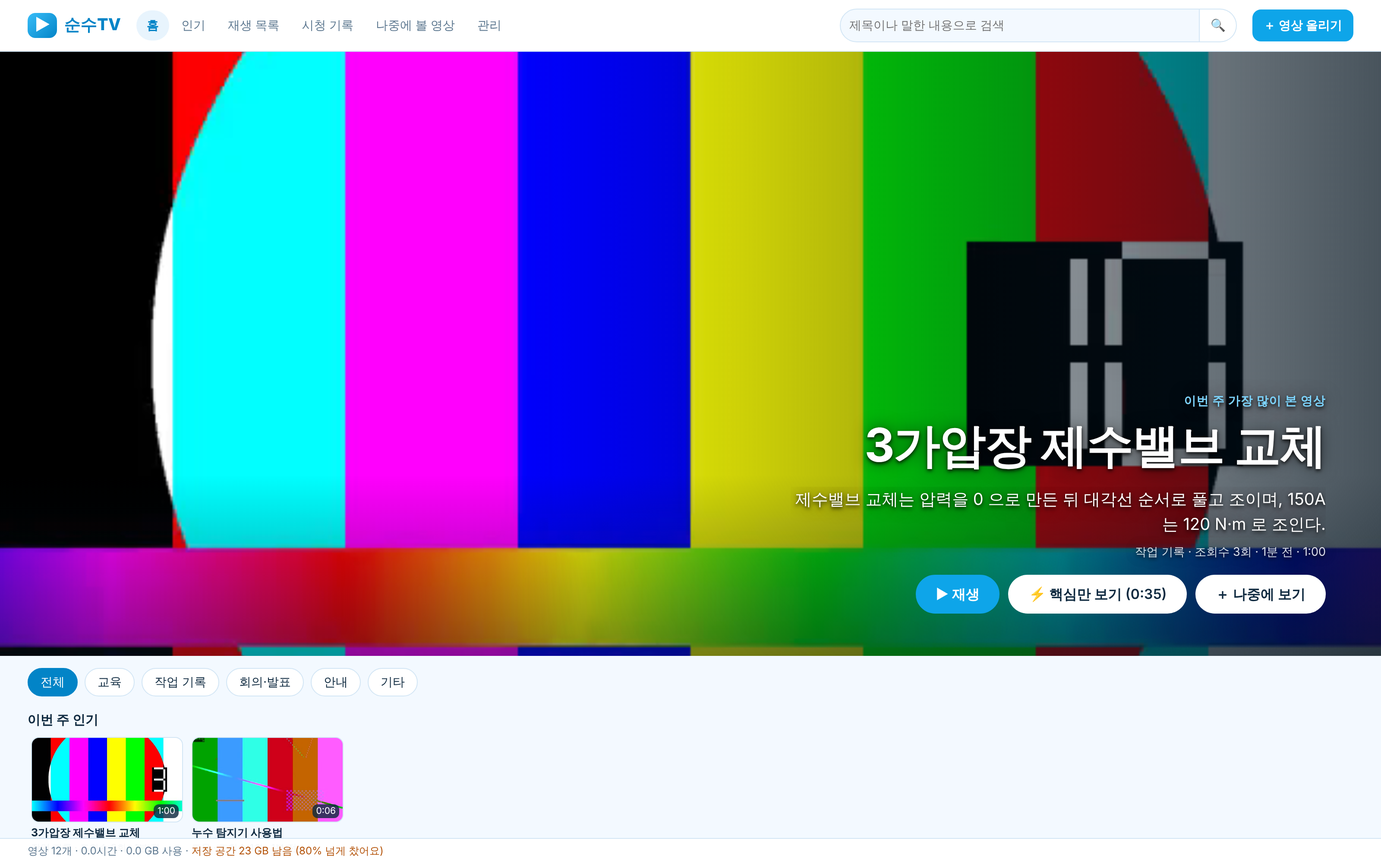
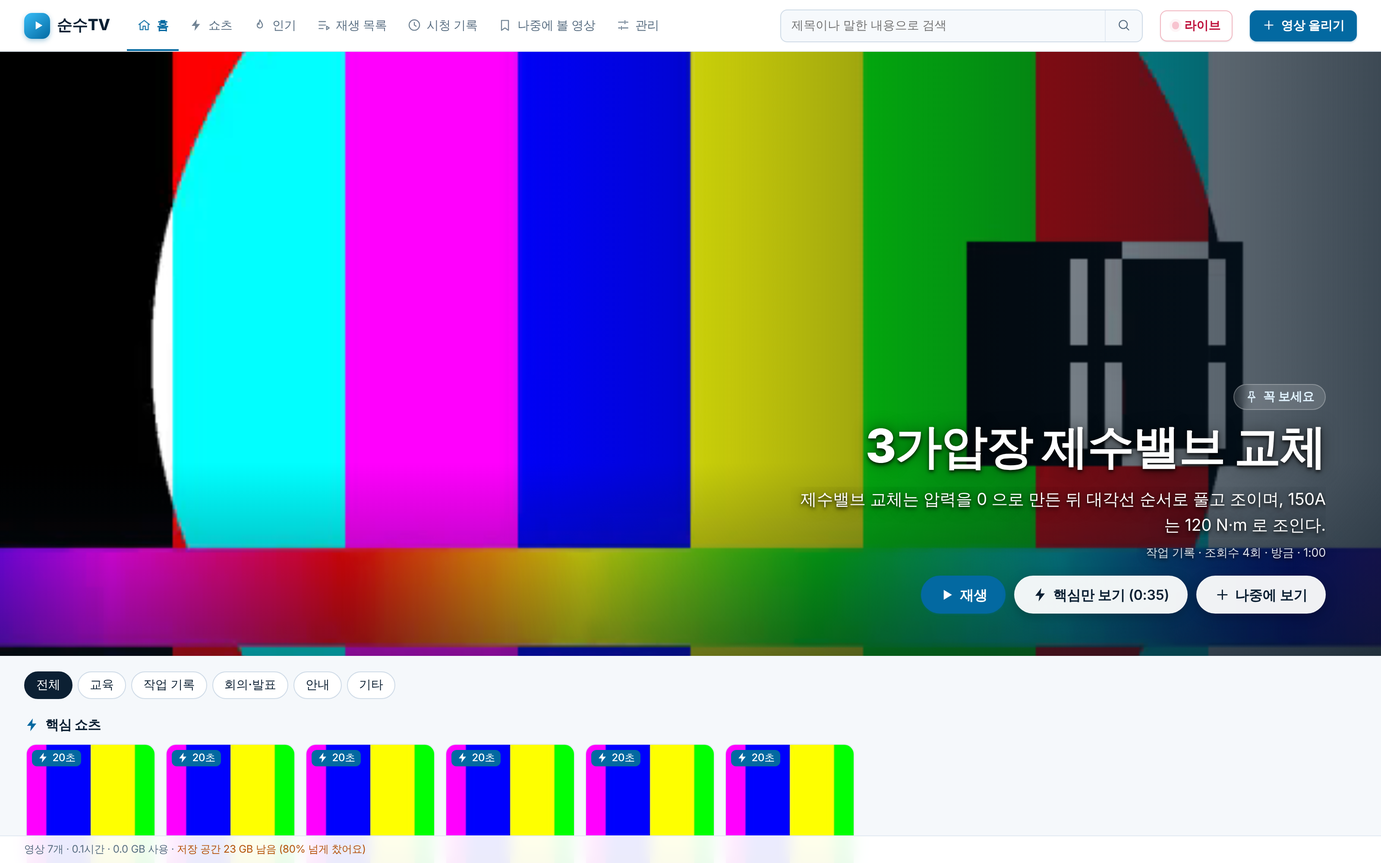
화면 다듬기: 밝은 색 그대로 선 아이콘, 정돈된 간격, 한눈에 보이는 도구 줄, 밝은 편집실 (#20)
Claude-Session: https://claude.ai/code/session_01WFWMCxUpiuvt1NbcY57aW6

diff --git a/module/web/pro.css b/module/web/pro.css
@@ -1,0 +1,97 @@
+/* 순수TV 다듬기: 밝은 하늘색·하얀색을 유지하면서 간격·글자·선·그림자를 한 가지 규칙으로 맞춘다. style.css 위에 덮어쓴다. */
+:root{--bg:#f5f8fb;--panel:#fff;--soft:#eef6fc;--line:#e2eaf2;--line2:#cfdbe7;--text:#0c2033;--muted:#5a6f83;--accent:#0a8fd6;--accent2:#0369a1;--bad:#c62828;--ok:#15803d;
+  --r1:8px;--r2:12px;--r3:16px;--sh1:0 1px 2px rgba(12,32,51,.05),0 1px 1px rgba(12,32,51,.03);--sh2:0 2px 6px rgba(12,32,51,.06),0 12px 28px rgba(12,32,51,.08);--shadow:var(--sh2);--ring:0 0 0 3px rgba(10,143,214,.22)}
+html{-webkit-text-size-adjust:100%}body{background:var(--bg);font:14px/1.55 -apple-system,"Segoe UI","Apple SD Gothic Neo","Malgun Gothic","Noto Sans KR",system-ui,sans-serif;letter-spacing:-.01em;-webkit-font-smoothing:antialiased;color:var(--text)}
+*{scrollbar-width:thin;scrollbar-color:#c4d2df transparent}::selection{background:#cfe9fa}
+h1,h2,h3,b{letter-spacing:-.02em}
+
+/* 아이콘 */
+.ic{width:1.15em;height:1.15em;vertical-align:-.2em;fill:none;stroke:currentColor;stroke-width:1.8;stroke-linecap:round;stroke-linejoin:round;flex:none;display:inline-block}.ic.fill{fill:currentColor;stroke:none}
+.ic.livemark{width:.6em;height:.6em;border-radius:50%;background:#e11d48;vertical-align:.08em;box-shadow:0 0 0 3px rgba(225,29,72,.18);animation:blink 1.2s infinite}
+
+/* 버튼 · 입력 */
+button,a.btn{display:inline-flex;align-items:center;justify-content:center;gap:6px;height:36px;padding:0 13px;border:1px solid var(--line2);border-radius:var(--r1);background:#fff;color:var(--text);font-weight:500;line-height:1;white-space:nowrap;transition:background .12s,border-color .12s,box-shadow .12s,color .12s;box-shadow:var(--sh1)}
+button:hover,a.btn:hover{background:#f3f8fc;border-color:#9fc3dc;color:var(--text)}button:active,a.btn:active{background:#e8f1f8}button:focus-visible,a:focus-visible,summary:focus-visible{outline:0;box-shadow:var(--ring)}
+button.primary,a.btn.primary{background:var(--accent2);border-color:var(--accent2);color:#fff;font-weight:600;box-shadow:0 1px 2px rgba(3,105,161,.3)}button.primary:hover,a.btn.primary:hover{background:#075985;border-color:#075985;color:#fff}
+button.ghost,a.btn.ghost{background:transparent;border-color:transparent;box-shadow:none;color:var(--muted)}button.ghost:hover{background:#eaf2f8;color:var(--text)}
+button.on{background:var(--soft);border-color:#8cc7ea;color:var(--accent2);font-weight:600}button.small{height:28px;padding:0 9px;font-size:12.5px;border-radius:7px;box-shadow:none}button.danger:hover{background:#fdecec;border-color:#f3b4b4;color:var(--bad)}
+button:disabled{opacity:.45;box-shadow:none}
+input,select,textarea{border:1px solid var(--line2);border-radius:var(--r1);padding:8px 10px;background:#fff;transition:border-color .12s,box-shadow .12s}input:focus,select:focus,textarea:focus{outline:0;border-color:var(--accent);box-shadow:var(--ring)}
+select{height:36px;padding:0 8px}input[type=checkbox]{accent-color:var(--accent2);width:15px;height:15px;vertical-align:-2px}label{font-weight:500}.meta{color:var(--muted);font-size:12.5px}
+
+/* 위쪽 줄 */
+.top{height:60px;padding:0 28px;gap:6px 20px;flex-wrap:nowrap;background:rgba(255,255,255,.92);backdrop-filter:saturate(1.4) blur(10px);border-bottom:1px solid var(--line)}
+.logo{font-size:18px;font-weight:800;color:var(--text);display:flex;align-items:center;gap:8px}.logo .mark{display:grid;place-items:center;width:30px;height:30px;border-radius:9px;margin:0;padding:0 0 0 2px;font-size:13px;background:linear-gradient(140deg,#38bdf8,#0369a1);box-shadow:0 2px 6px rgba(3,105,161,.35)}
+.nav{gap:0;align-self:stretch;align-items:stretch}.nav a{display:flex;align-items:center;gap:6px;padding:0 12px;border-radius:0;font-weight:500;color:var(--muted);border-bottom:2px solid transparent;border-top:2px solid transparent;background:none}
+.nav a:hover{background:none;color:var(--text)}.nav a.on{background:none;color:var(--accent2);font-weight:600;border-bottom-color:var(--accent2)}.nav a .ic{opacity:.85}
+.search{max-width:420px;min-width:160px;height:38px;border:1px solid var(--line2);border-radius:var(--r1);background:#f6f9fc;overflow:hidden;transition:border-color .12s,box-shadow .12s,background .12s}.search:focus-within{border-color:var(--accent);box-shadow:var(--ring);background:#fff}
+.search input{border:0;background:transparent;border-radius:0;box-shadow:none!important;padding:0 12px}.search button{border:0;border-left:1px solid var(--line);border-radius:0;height:auto;background:transparent;box-shadow:none;color:var(--muted)}
+.livebtn{border-color:#f2b8c2;color:#be123c;font-weight:600}.livebtn:hover{background:#fff1f3;border-color:#e68a9b;color:#be123c}#liveBtn,#recBtn{border-color:var(--line2);color:var(--text)}
+@media(max-width:1180px){.top{height:auto;flex-wrap:wrap;padding:8px 16px}.nav{order:5;width:100%;height:40px}}
+main{padding:22px 28px 76px;max-width:1720px}@media(max-width:900px){main{padding:14px 14px 76px}}
+h1.page{font-size:21px;font-weight:700;margin:2px 0 16px;display:flex;align-items:center;gap:8px}.sub{margin:-10px 0 16px}
+.chips{gap:6px;margin-bottom:18px}.chips button{height:32px;border-radius:16px;padding:0 13px;box-shadow:none;font-weight:500}.chips button[aria-pressed=true]{background:var(--text);border-color:var(--text);color:#fff}.chips select{height:32px}
+
+/* 홈 */
+.hero{margin-top:-22px;margin-bottom:18px}.hero:after{background:linear-gradient(270deg,rgba(6,22,36,.78) 0,rgba(6,22,36,.4) 36%,transparent 64%),linear-gradient(0deg,rgba(6,22,36,.5) 0,transparent 32%)}
+.hero .kicker{display:inline-flex;align-items:center;gap:6px;background:rgba(255,255,255,.14);backdrop-filter:blur(6px);border:1px solid rgba(255,255,255,.25);color:#e0f2fe;border-radius:20px;padding:3px 12px;letter-spacing:0;text-shadow:none}
+.hero h1{font-weight:800}.hero .btn{height:44px;padding:0 20px;border-radius:22px;box-shadow:0 4px 14px rgba(0,0,0,.25)}.hero .btn:not(.primary){background:rgba(255,255,255,.94)}
+.shelf{margin-bottom:6px}.shelf h2{font-size:15.5px;font-weight:700;display:flex;align-items:center;gap:7px}.shelf h2 a{display:inline-flex;align-items:center;gap:7px}.shelf h2 .ic{color:var(--accent2)}.shelf h2 span{font-weight:500}
+.rowlist{gap:12px;padding:10px 2px 16px}.arrow{width:36px;height:36px;border-radius:50%;padding:0;box-shadow:var(--sh2)}
+.thumb{border-radius:var(--r2);border:1px solid var(--line);background-color:#dfeaf3}.rowlist .thumb{border-radius:10px}.card{transition:transform .16s}.card:hover .thumb{box-shadow:var(--sh2);border-color:#b9d3e6}
+.thumb .dur,.thumb .badge{background:rgba(12,32,51,.84);border-radius:6px;font-weight:500;display:inline-flex;align-items:center;gap:4px}.thumb .badge{background:var(--accent2)}.thumb .badge.pin{background:#f59e0b}.thumb .badge.live,.livewrap .badge.live{background:#e11d48}.thumb .badge.yt{background:#334155}
+.thumb .prog{background:var(--accent);height:3px}.card h3{font-weight:600}.grid{gap:24px 16px}
+.empty{padding:80px 0}.empty b{font-size:16px}
+
+/* 보기 화면 */
+.watch{gap:26px;grid-template-columns:minmax(0,1fr) 384px}video,iframe.yt,.yt{border-radius:var(--r3);box-shadow:var(--sh2)}
+.strip{height:6px;border-radius:3px;background:#dbe7f1}.pbar{gap:6px;margin-top:10px}.pbar button.small,.pbar select{height:30px}.pbar select{padding:0 6px}
+.watch h1{font-size:22px;font-weight:700;margin:16px 0 4px}
+.actions{gap:6px;margin:12px 0 10px}.actions button,.actions a.btn{border-radius:18px;padding:0 13px;background:#fff}.actions #like,.actions #dislike{font-variant-numeric:tabular-nums}
+.actions #like{border-radius:18px 0 0 18px;border-right:0;margin-right:-6px}.actions #dislike{border-radius:0 18px 18px 0}
+.toolbar{display:flex;flex-wrap:wrap;gap:8px 22px;align-items:center;background:var(--panel);border:1px solid var(--line);border-radius:var(--r2);padding:8px 12px;margin:0 0 12px;box-shadow:var(--sh1)}
+.tgroup{display:flex;flex-wrap:wrap;gap:2px;align-items:center}.tlabel{font-size:11.5px;font-weight:700;color:var(--muted);letter-spacing:.04em;margin-right:8px;padding-right:10px;border-right:1px solid var(--line)}
+.toolbar button{height:32px;padding:0 9px;border:0;background:transparent;box-shadow:none;border-radius:7px;color:#2b4257;font-size:13px}.toolbar button:hover{background:var(--soft);color:var(--accent2)}.toolbar button.danger:hover{background:#fdecec;color:var(--bad)}.toolbar button .ic{color:var(--muted)}.toolbar button:hover .ic{color:inherit}
+.desc{border-radius:var(--r2);border:1px solid var(--line);box-shadow:var(--sh1)}.tag{font-weight:500}
+.comments h2,.side h2{font-size:15px;font-weight:700}.cform input:not([type]){height:38px}.comment{border-bottom-color:var(--line)}.comment .ops button{height:26px;border:0;background:transparent;box-shadow:none;color:var(--muted)}.comment .ops button:hover{background:var(--soft);color:var(--accent2)}
+.comment.ai{border:1px solid #cfe6f6;background:#f4fafe;border-radius:var(--r2)}.aitag{display:inline-flex;align-items:center;gap:4px}
+.plbox,.corebox,.chatbox{border-radius:var(--r2);border:1px solid var(--line);box-shadow:var(--sh1);background:var(--panel)}
+.corebox header,.chatbox header,.plbox header{background:#fff;border-bottom:1px solid var(--line);padding:10px 14px}.corebox header b,.chatbox header b{color:var(--text);display:inline-flex;align-items:center;gap:6px;font-size:14px}.corebox header b .ic,.chatbox header b .ic{color:var(--accent2)}
+.corebox footer{border-top-color:var(--line);background:#fafcfe}.pt,.ln{border-radius:var(--r1)}.pt.cur,.ln.cur{background:var(--soft)}.filebtn{height:28px;display:inline-flex;align-items:center;border-color:var(--line2);border-radius:7px}
+#coreBtn{border-color:#8cc7ea;color:var(--accent2);background:var(--soft)}#coreBtn.on{background:var(--accent2);border-color:var(--accent2);color:#fff}
+.cm{border-radius:10px;background:#f4f8fb;border-color:var(--line)}.cm.me{background:#e3f2fc;border-color:#c5e3f6}.chform{border-top-color:var(--line)}.chform input{height:34px;padding:0 9px}.chform button{height:34px}
+.attok{display:flex;align-items:center;gap:6px;color:var(--ok)}.attform input{height:34px}.side .card h3{font-weight:600}
+
+/* 창 */
+dialog{border:0;border-radius:var(--r3);box-shadow:0 24px 70px rgba(12,32,51,.28);padding:24px}dialog::backdrop{background:rgba(12,32,51,.38);backdrop-filter:blur(3px)}
+dialog h2{font-size:18px;font-weight:700;margin:0 0 14px;display:flex;align-items:center;gap:8px}dialog label{font-size:12.5px;color:var(--muted);font-weight:600}dialog label input,dialog label select,dialog label textarea{font-weight:400;margin-top:5px}
+.drop{border:1.5px dashed #a8c8de;border-radius:var(--r2);background:#f7fbfe;padding:22px}.drop.over{border-color:var(--accent);background:var(--soft)}.hint{line-height:1.6}.linkrow{border-top:1px solid var(--line);border-top-style:solid}.pick{font-weight:500;color:var(--text)}
+.uprow .bar,.meter{background:#dde8f1}.thc{border-radius:10px}.mgrow{height:auto;justify-content:initial;border-radius:var(--r1);box-shadow:none}.thhooks button{border-radius:14px}
+#toast{background:var(--text);border-radius:10px;padding:10px 16px;font-weight:500;box-shadow:var(--sh2);display:flex;align-items:center;gap:8px}#toast[hidden]{display:none!important}
+.foot{background:rgba(255,255,255,.92);border-top:1px solid var(--line);padding:6px 28px;backdrop-filter:blur(8px)}
+
+/* 관리 */
+.box{border-radius:var(--r2);border:1px solid var(--line);box-shadow:var(--sh1);padding:18px 20px;margin-bottom:14px}.box h2{font-size:15px;font-weight:700;display:flex;align-items:center;gap:7px;margin-bottom:12px}
+table.adm th{font-size:12px;font-weight:600;letter-spacing:.02em;background:#f7fafc;border-bottom:1px solid var(--line2);position:sticky;top:0}table.adm td{border-bottom-color:var(--line)}table.adm tbody tr:hover{background:#f7fbfe}table.adm img{border-radius:6px}
+.duprow{border-top-color:var(--line)}.wmprev{border-radius:var(--r2)}.catrow input{height:34px}.plrow{border-bottom-color:var(--line);border-radius:var(--r1)}.plrow:hover{background:#f7fbfe}
+
+/* 쇼츠 */
+.sh-stage{border-radius:22px;box-shadow:var(--sh2)}.sh-cap .btn{height:38px;border-radius:19px}.sh-nav button{width:44px;height:44px;border-radius:50%;padding:0}.shcard .thumb{border-radius:12px}
+
+/* 편집실 · 가리기 · 라이브 방송: 밝은 작업 화면 */
+dialog.studio{background:#f3f6f9;color:var(--text);padding:0;border-radius:0;box-shadow:none}
+.studio button{background:#fff;border-color:var(--line2);color:var(--text);border-radius:var(--r1)}.studio button:hover{background:#f3f8fc;border-color:#9fc3dc;color:var(--text)}.studio button.primary{background:var(--accent2);border-color:var(--accent2);color:#fff}.studio button.primary:hover{background:#075985;color:#fff}
+.studio button.ghost{background:transparent;border-color:transparent}.studio button.on{background:#fff4d6;border-color:#f5b82e;color:#8a5a00}
+.studio select,.studio input{background:#fff;border-color:var(--line2);color:var(--text)}.studio kbd{background:#fff;border-color:var(--line2);color:var(--muted)}
+.st-top{background:#fff;border-bottom:1px solid var(--line);padding:0 20px;height:56px}.st-logo{color:var(--text);font-size:16px;display:inline-flex;align-items:center;gap:7px;letter-spacing:-.02em}.st-logo .ic{color:var(--accent2)}.st-title{color:var(--muted)}.st-top .msg{color:var(--muted)}.st-top .msg.bad{color:var(--bad)}
+.st-stage{background:#e6ecf2;padding:18px}#edV,#blV,#lvV{background:#0b1622;border-radius:var(--r2);box-shadow:var(--sh2)}
+.st-side{background:#fff;border-left:1px solid var(--line)}.st-side header{border-bottom:1px solid var(--line);padding:12px 14px}.st-empty{color:var(--muted)}.st-empty b{color:var(--accent2)}.st-help{border-top:1px solid var(--line);color:var(--muted);background:#fafcfe}
+.edrow.sel{background:var(--soft);border-color:#8cc7ea}.edrow>b{background:var(--accent2)}.edrow .len{color:var(--muted)}.edrow>span{color:var(--muted)}.blrow .when{color:var(--text)}
+.st-bar{background:#fff;border-top:1px solid var(--line);padding:10px 20px}.st-bar .play{background:var(--text);border-color:var(--text);color:#fff}.st-bar .play:hover{background:#17324b;color:#fff}.st-bar .tc{color:var(--muted)}.st-bar .tc b{color:var(--text)}
+.st-bar .mark{border-color:#f5b82e;color:#8a5a00;background:#fffaf0}.st-bar .mark:hover{background:#ffedc2;color:#6b4500;border-color:#f5b82e}
+.st-time{background:#fff;padding:8px 20px 18px;border-top:1px solid var(--line)}.ruler{border-bottom-color:var(--line)}.ruler span{color:var(--muted);border-left-color:var(--line2)}
+.track{background:#dfe8f0;border-radius:var(--r1)}.film{border-radius:var(--r1)}#edRanges s{background:rgba(245,248,251,.78)}.rg{border-color:var(--accent2);box-shadow:0 0 0 1px rgba(255,255,255,.7)}.rg em{background:var(--accent2);color:#fff}.rg .h{background:var(--accent2)}
+.rg.sel{border-color:#f59e0b}.rg.sel em,.rg.sel .h{background:#f59e0b}.rg .h:after{background:rgba(255,255,255,.75)}#edPos{background:#e11d48}#edPos:before{border-top-color:#e11d48}
+.bx{border-color:var(--accent2)}.bx em{background:var(--accent2);color:#fff}.bx.sel{border-color:#f59e0b}.bx.sel em{background:#f59e0b}
+.lvsetup label{color:var(--muted)}.lvsetup .msg{color:var(--muted)}.lvsetup .msg.bad{color:var(--bad)}.lvchat header{border-bottom:1px solid var(--line)}.studio .cm{background:#f4f8fb;border-color:var(--line);color:var(--text)}.studio .cm b{color:var(--accent2)}.studio .chform{border-top-color:var(--line)}
+.lvgo{background:#e11d48!important;border-color:#e11d48!important;color:#fff!important;height:46px}.studio .st-title .livedot{background:#e11d48}#recBar{background:var(--text)}

diff --git a/module/web/icons.js b/module/web/icons.js
@@ -1,0 +1,40 @@
+/* 순수TV 아이콘: 글자 속 그림 문자(이모지)를 선으로 그린 아이콘으로 바꿔 화면을 한결같게 보이게 한다.
+   화면 코드는 그대로 두고, 화면에 글자가 나타날 때마다 이 파일이 알아서 바꾼다. 사용자가 쓴 글(제목, 댓글, 채팅)은 건드리지 않는다. */
+(() => {
+  const P = {   // 24x24, 선 굵기 1.8. f = 채워 그리는 아이콘
+    home: 'M3 11l9-7 9 7M5 10v10h5v-6h4v6h5V10', flame: 'M12 3c1 3.2 4.5 5.2 4.5 9.5a4.5 4.5 0 0 1-9 0c0-1.6.6-2.8 1.5-3.9.3 1.2.9 1.9 1.6 2.3C10.4 8.6 11 6 12 3z',
+    list: 'M4 6h11M4 12h11M4 18h7M17 14l4.5 3-4.5 3z', clock: 'M12 3a9 9 0 1 0 0 18a9 9 0 0 0 0-18zM12 7.5V12l3 2', later: 'M6 4h12v17l-6-4-6 4z', sliders: 'M4 7h9M17 7h3M4 17h3M11 17h9M15 4.5v5M9 14.5v5',
+    play: { d: 'M7 4.5l12.5 7.5L7 19.5z', f: 1 }, bolt: { d: 'M13.5 2L4.5 13.5h6.2L9.5 22l9.5-12h-6.4z', f: 1 }, pin: 'M9 3h6l-1 6 4 4H6l4-4zM12 13v8',
+    up: 'M7 11v9H4v-9zM7 11l4-8c1.5 0 2.5 1 2.5 2.5V9h5a2 2 0 0 1 2 2.3l-1.2 7A2 2 0 0 1 17.3 20H7', down: { d: 'M7 11v9H4v-9zM7 11l4-8c1.5 0 2.5 1 2.5 2.5V9h5a2 2 0 0 1 2 2.3l-1.2 7A2 2 0 0 1 17.3 20H7', r: 1 },
+    share: 'M14 5l6 6-6 6M20 11H9.5A5.5 5.5 0 0 0 4 16.5V19', camera: 'M4 8h3l2-3h6l2 3h3v11H4zM12 17a3.5 3.5 0 1 0 0-7a3.5 3.5 0 0 0 0 7z', download: 'M12 4v11M7 11l5 5 5-5M5 20h14',
+    scissors: 'M6 9a3 3 0 1 0 0-6a3 3 0 0 0 0 6zM6 21a3 3 0 1 0 0-6a3 3 0 0 0 0 6zM8.3 8.2L20 20M8.3 15.8L20 4', image: 'M4 5h16v14H4zM4 16l5-5 4 4 3-3 4 4M15.5 9.6h.01', mosaic: 'M4 4h7v7H4zM13 4h7v7h-7zM4 13h7v7H4zM13 13h7v7h-7z',
+    volume: 'M4 10v4h4l5 4V6L8 10zM16 9a4 4 0 0 1 0 6M18.5 6.5a8 8 0 0 1 0 11', mute: 'M4 10v4h4l5 4V6L8 10zM17 9.5l4 5M21 9.5l-4 5', plus: 'M12 5v14M5 12h14', tag: 'M4 4h8l8 8-8 8-8-8zM8.5 8.5h.01',
+    hand: 'M8 13V6.5a1.5 1.5 0 0 1 3 0V11V4.5a1.5 1.5 0 0 1 3 0V11V6.5a1.5 1.5 0 0 1 3 0V15a6 6 0 0 1-6 6c-2.8 0-4.3-1.4-5.8-3.9L3.4 14a1.5 1.5 0 0 1 2.5-1.6z', chart: 'M4 4v16h16M8 16v-4M12 16V8M16 16v-6',
+    flag: 'M5 21V4h11l-2 4 2 4H5', trash: 'M4 7h16M9 7V4h6v3M6 7l1 13h10l1-13M10 11v6M14 11v6', chat: 'M4 5h16v11H9l-5 4z', bot: 'M12 3v3M6 6h12a2 2 0 0 1 2 2v9a2 2 0 0 1-2 2H6a2 2 0 0 1-2-2V8a2 2 0 0 1 2-2zM9 12h.01M15 12h.01M9 16h6',
+    link: 'M10 14a4 4 0 0 0 5.7 0l3-3a4 4 0 0 0-5.7-5.7l-1 1M14 10a4 4 0 0 0-5.7 0l-3 3a4 4 0 0 0 5.7 5.7l1-1', rec: { d: 'M12 6a6 6 0 1 0 0 12a6 6 0 0 0 0-12z', f: 1 }, search: 'M11 4a7 7 0 1 0 0 14a7 7 0 0 0 0-14zM16 16l4.5 4.5',
+    sparkle: 'M12 3l1.8 5.2L19 10l-5.2 1.8L12 17l-1.8-5.2L5 10l5.2-1.8zM19 16l.7 1.8 1.8.7-1.8.7L19 21l-.7-1.8-1.8-.7 1.8-.7z', rew: { d: 'M11 6l-7.5 6 7.5 6zM20.5 6L13 12l7.5 6z', f: 1 }, fwd: { d: 'M13 6l7.5 6-7.5 6zM3.5 6l7.5 6-7.5 6z', f: 1 },
+    check: 'M5 12.5l4.5 4.5L19 7.5', x: 'M6 6l12 12M18 6L6 18', eye: 'M2.5 12s3.5-6.5 9.5-6.5S21.5 12 21.5 12 18 18.5 12 18.5 2.5 12 2.5 12zM12 15a3 3 0 1 0 0-6a3 3 0 0 0 0 6z',
+    mic: 'M12 3a3 3 0 0 0-3 3v5a3 3 0 0 0 6 0V6a3 3 0 0 0-3-3zM6 11a6 6 0 0 0 12 0M12 17v4', hourglass: 'M7 3h10M7 21h10M8 3c0 5 8 5 8 9s-8 4-8 9M16 3c0 5-8 5-8 9s8 4 8 9', alert: 'M12 4l9 16H3zM12 10v4M12 17h.01',
+    stop: { d: 'M7 7h10v10H7z', f: 1 }, cup: 'M6 15l6-6 6 6', cdown: 'M6 9l6 6 6-6', cleft: 'M15 6l-6 6 6 6', cright: 'M9 6l6 6-6 6', menu: 'M4 7h16M4 12h16M4 17h16', arrowL: 'M19 12H5M11 6l-6 6 6 6', calendar: 'M5 6h14v14H5zM5 10h14M9 4v4M15 4v4', pencil: 'M4 20h4L19 9l-4-4L4 16zM13.5 6.5l4 4'
+  };
+  const MAP = { '🏠': 'home', '🔥': 'flame', '📚': 'list', '🕘': 'clock', '⏰': 'later', '⚙': 'sliders', '▶': 'play', '⚡': 'bolt', '📌': 'pin', '👍': 'up', '👎': 'down', '↗': 'share', '📷': 'camera', '⬇': 'download', '✂': 'scissors', '🖼': 'image',
+    '▦': 'mosaic', '🔊': 'volume', '🔇': 'mute', '➕': 'plus', '＋': 'plus', '🏷': 'tag', '✋': 'hand', '📊': 'chart', '🚩': 'flag', '🗑': 'trash', '💬': 'chat', '🤖': 'bot', '🔗': 'link', '⏺': 'rec', '🔍': 'search', '✨': 'sparkle', '⏪': 'rew', '⏩': 'fwd',
+    '✓': 'check', '✕': 'x', '👀': 'eye', '🎙': 'mic', '⏳': 'hourglass', '⚠': 'alert', '■': 'stop', '▲': 'cup', '▼': 'cdown', '‹': 'cleft', '›': 'cright', '←': 'arrowL', '✎': 'pencil', '🔴': 'live' };
+  const RE = new RegExp('(' + Object.keys(MAP).map((k) => k.replace(/[.*+?^${}()|[\]\\]/g, '\\$&')).join('|') + ')\\uFE0F?', 'u');
+  // 사용자가 쓴 글과, 매 순간 글자가 바뀌는 곳은 건드리지 않는다
+  const SKIP = '.comment > div:not(.ops), .cm, .desc, .watch h1, .card h3, .hero h1, .hero p, #shT, #shP, .pt, .ln, .sum, .hitline, .mgrow span, .atttable, .edrow, #edPlay, #blPlay, textarea, input, script, style, svg, .ic, .adm td:nth-child(3), .plrow b, .uprow';
+  const svg = (name) => { if (name === 'live') return '<span class="ic livemark" aria-hidden="true"></span>'; const p = P[name], d = p.d || p;
+    return `<svg class="ic${p.f ? ' fill' : ''}" viewBox="0 0 24 24" aria-hidden="true"${p.r ? ' style="transform:rotate(180deg)"' : ''}><path d="${d}"/></svg>`; };
+  window.icon = svg;
+  function fix(node) {
+    if (!node.parentElement || node.parentElement.closest(SKIP)) return;
+    let m, n = node;
+    while ((m = RE.exec(n.nodeValue))) { const rest = n.splitText(m.index); rest.nodeValue = rest.nodeValue.slice(m[0].length); const t = document.createElement('template'); t.innerHTML = svg(MAP[m[1]]); rest.parentNode.insertBefore(t.content.firstChild, rest); n = rest; }
+  }
+  function scan(root) {
+    if (root.nodeType === 3) return fix(root); if (root.nodeType !== 1) return;
+    const w = document.createTreeWalker(root, NodeFilter.SHOW_TEXT), list = []; while (w.nextNode()) if (RE.test(w.currentNode.nodeValue)) list.push(w.currentNode); list.forEach(fix);
+  }
+  const start = () => { scan(document.body); new MutationObserver((ms) => { for (const m of ms) { if (m.type === 'characterData') fix(m.target); else m.addedNodes.forEach(scan); } }).observe(document.body, { childList: true, subtree: true, characterData: true }); };
+  if (document.body) start(); else document.addEventListener('DOMContentLoaded', start);
+})();

diff --git a/module/web/app.js b/module/web/app.js
@@ -405,9 +405,9 @@ async function watch(id, params) {
     <h1>${esc(v.title)}</h1><div class="meta">${esc(v.category)} · 조회수 <span id="views">${v.views}</span>회 · ${ago(v.created)}${v.bytes ? ' · ' + mb(v.bytes) : ''}${v.kind === 'link' ? ' · 링크 영상' : ''}${isLive ? ' · 🔴 방송 중' : v.wasLive ? ' · 라이브 다시 보기' : ''}${v.visibility === 'unlisted' ? ' · 링크로만 공개' : ''}${v.hidden ? ' · 관리자가 숨김' : ''}</div>
     <div class="actions"><button id="like" class="${liked === 1 ? 'on' : ''}">👍 <b id="likes">${v.likes}</b></button><button id="dislike" class="${liked === -1 ? 'on' : ''}">👎 <b id="dislikes">${v.dislikes}</b></button>
       <button id="share">↗ 공유</button><button id="later" class="${later ? 'on' : ''}">⏰ ${later ? '담김' : '나중에 보기'}</button><button id="addPl">📚 재생 목록에 담기</button><span class="sp"></span>
-      <button id="capBtn" class="ghost" title="지금 장면을 사진으로 저장">📷 장면 캡처</button><a id="dlBtn" class="btn ghost" title="통신이 안 되는 곳에 가기 전에 받아 두세요">⬇ 내려받기</a><button id="edit" class="ghost">고치기</button><button id="trimBtn" class="ghost">✂ 편집</button>
-      <details class="more" id="tools"><summary>도구 ▾</summary><div class="menu"><button id="thumbBtn">🖼 썸네일</button><button id="blurBtn">▦ 가리기</button><button id="audioBtn">🔊 소리 정리</button><button id="mergeBtn">➕ 영상 합치기</button><button id="markBtn">🏷 로고 넣기</button>
-        <button id="attBtn">✋ 출석 ${v.attend ? `명단 (${v.attendCount})` : '받기'}</button><button id="statBtn">📊 시청 그래프</button><hr><button id="report">🚩 신고</button><button id="del">🗑 지우기</button></div></details></div>
+      <button id="capBtn" title="지금 장면을 사진으로 저장">📷 장면 캡처</button><a id="dlBtn" class="btn" title="통신이 안 되는 곳에 가기 전에 받아 두세요">⬇ 내려받기</a></div>
+    <div class="toolbar" id="tools"><div class="tgroup"><span class="tlabel">편집</span><button id="edit" title="제목·설명·분류·공개 범위">✎ 정보 고치기</button><button id="trimBtn" title="필요한 부분만 남기기">✂ 편집</button><button id="thumbBtn">🖼 썸네일</button><button id="blurBtn">▦ 가리기</button><button id="audioBtn">🔊 소리 정리</button><button id="mergeBtn">➕ 합치기</button><button id="markBtn">🏷 로고 넣기</button></div>
+      <div class="tgroup"><span class="tlabel">운영</span><button id="attBtn">✋ 출석 ${v.attend ? `명단 (${v.attendCount})` : '받기'}</button><button id="statBtn">📊 시청 그래프</button><button id="report">🚩 신고</button><button id="del" class="danger">🗑 지우기</button></div></div>
     ${v.note && v.status === 'ready' ? `<p class="msg bad">${esc(v.note)}</p>` : ''}
     ${v.desc || v.tags.length ? `<div class="desc">${esc(v.desc)}${v.tags.length ? (v.desc ? '\n' : '') + v.tags.map((t) => `<a class="tag" href="#/tag/${encodeURIComponent(t)}">#${esc(t)}</a>`).join('') : ''}</div>` : ''}
     <div class="comments"><h2>댓글 ${d.comments.length}개</h2>
@@ -575,8 +575,6 @@ async function watch(id, params) {
     try { await api(`api/videos/${id}/audio`, send('POST')); route(); } catch (e) { alert(e.message); } };
   if (P) { $('#dlBtn').href = src(quality) + (src(quality).includes('?') ? '&' : '?') + 'download=1'; $('#dlBtn').download = v.title.replace(/[\\/:*?"<>|]/g, ' ').trim().slice(0, 80) + '.mp4'; } else $('#dlBtn').hidden = true;
   if (link) $('#statBtn').hidden = true;
-  $$('#tools .menu button').forEach((b) => b.addEventListener('click', () => { $('#tools').open = false; }));   // 메뉴에서 고르면 닫는다
-  document.addEventListener('click', (e) => { const t = $('#tools'); if (t && t.open && !t.contains(e.target)) t.open = false; }, { capture: true });
   /* 장면 캡처: 지금 보는 장면을 사진(PNG)으로 저장한다. 될 때는 복사도 해 둔다(붙여 넣기용) */
   if (!P) { $('#capBtn').hidden = true; $('#mergeBtn').hidden = true; $('#markBtn').hidden = true; }
   $('#capBtn').onclick = () => { const c = document.createElement('canvas'); c.width = P.videoWidth; c.height = P.videoHeight; if (!c.width) return toast('영상이 준비된 뒤에 눌러 주세요');

diff --git a/module/web/index.html b/module/web/index.html
@@ -6,18 +6,19 @@
 <title>순수TV</title>
 <link rel="icon" href="icon.svg">
 <link rel="stylesheet" href="style.css">
+<link rel="stylesheet" href="pro.css">
 </head>
 <body>
 <header class="top">
   <a class="logo" href="#/"><span class="mark">▶</span> 순수TV</a>
   <nav id="side" class="nav">
-    <a href="#/" data-nav="home">홈</a>
+    <a href="#/" data-nav="home">🏠 홈</a>
     <a href="#/shorts" data-nav="shorts">⚡ 쇼츠</a>
-    <a href="#/popular" data-nav="popular">인기</a>
-    <a href="#/playlists" data-nav="playlists">재생 목록</a>
-    <a href="#/history" data-nav="history">시청 기록</a>
-    <a href="#/later" data-nav="later">나중에 볼 영상</a>
-    <a href="#/admin" data-nav="admin">관리</a>
+    <a href="#/popular" data-nav="popular">🔥 인기</a>
+    <a href="#/playlists" data-nav="playlists">📚 재생 목록</a>
+    <a href="#/history" data-nav="history">🕘 시청 기록</a>
+    <a href="#/later" data-nav="later">⏰ 나중에 볼 영상</a>
+    <a href="#/admin" data-nav="admin">⚙ 관리</a>
   </nav>
   <form id="searchForm" class="search"><input id="q" placeholder="제목이나 말한 내용으로 검색" autocomplete="off"><button title="찾기">🔍</button></form>
   <button id="liveTop" class="livebtn" title="지금 카메라로 방송하기">🔴 라이브</button>
@@ -44,6 +45,7 @@
 </dialog>
 <dialog id="dlg"></dialog>
 <div id="toast" hidden></div>
+<script src="icons.js"></script>
 <script src="app.js"></script>
 </body>
 </html>
